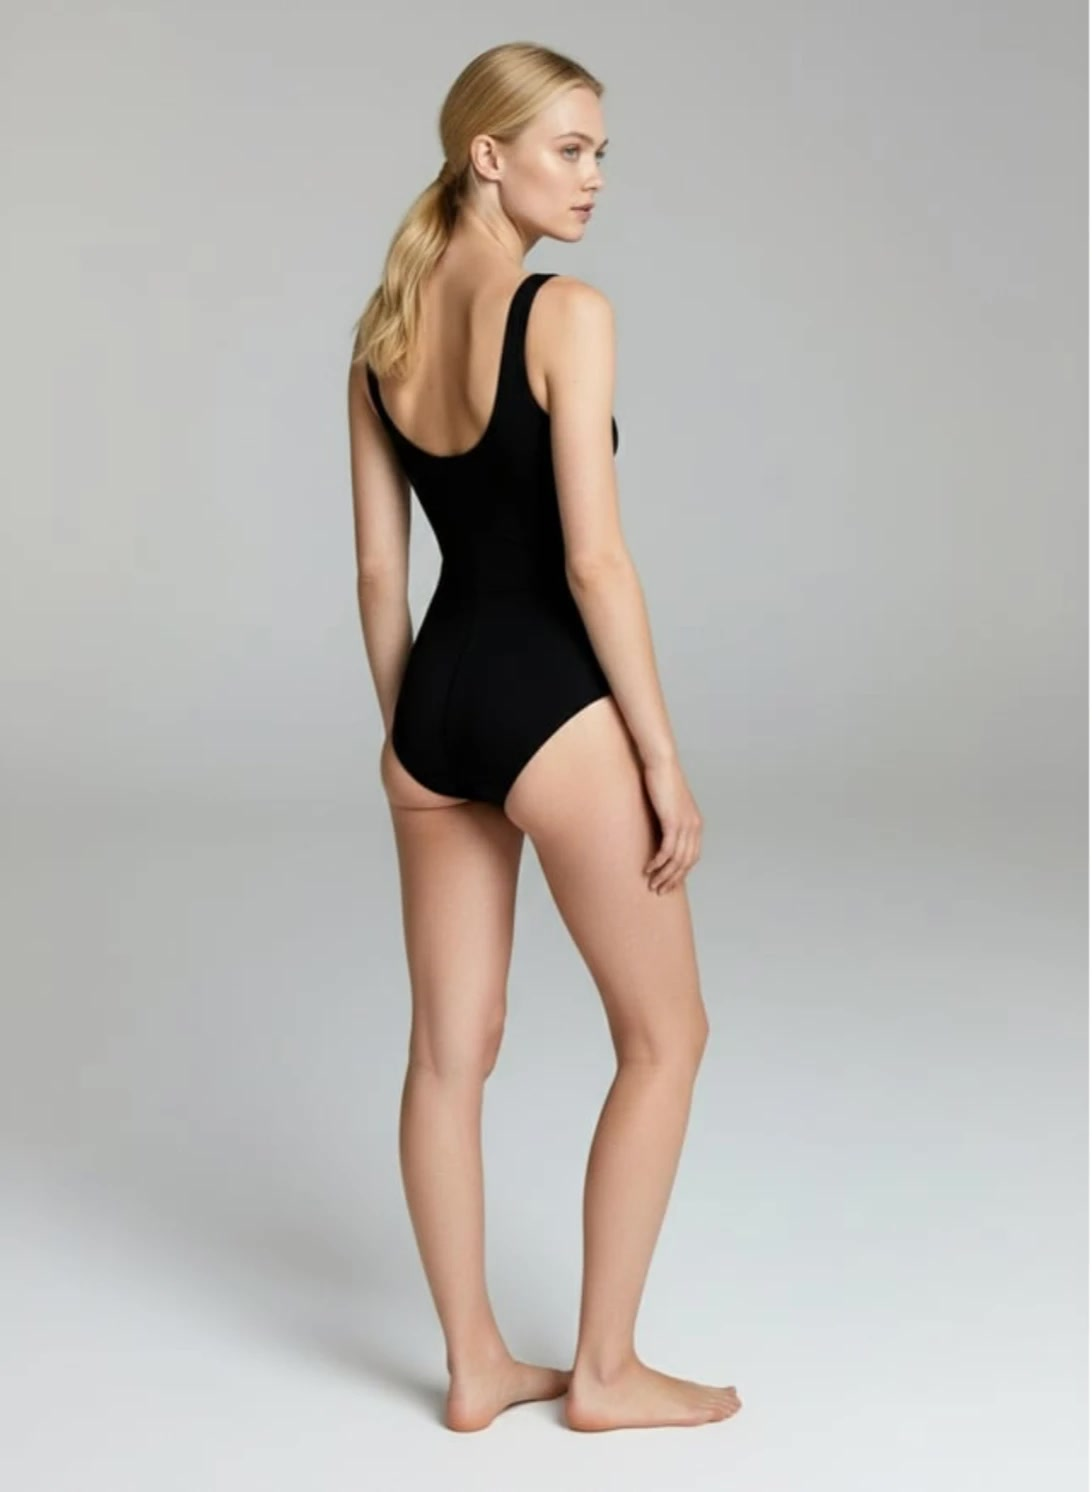
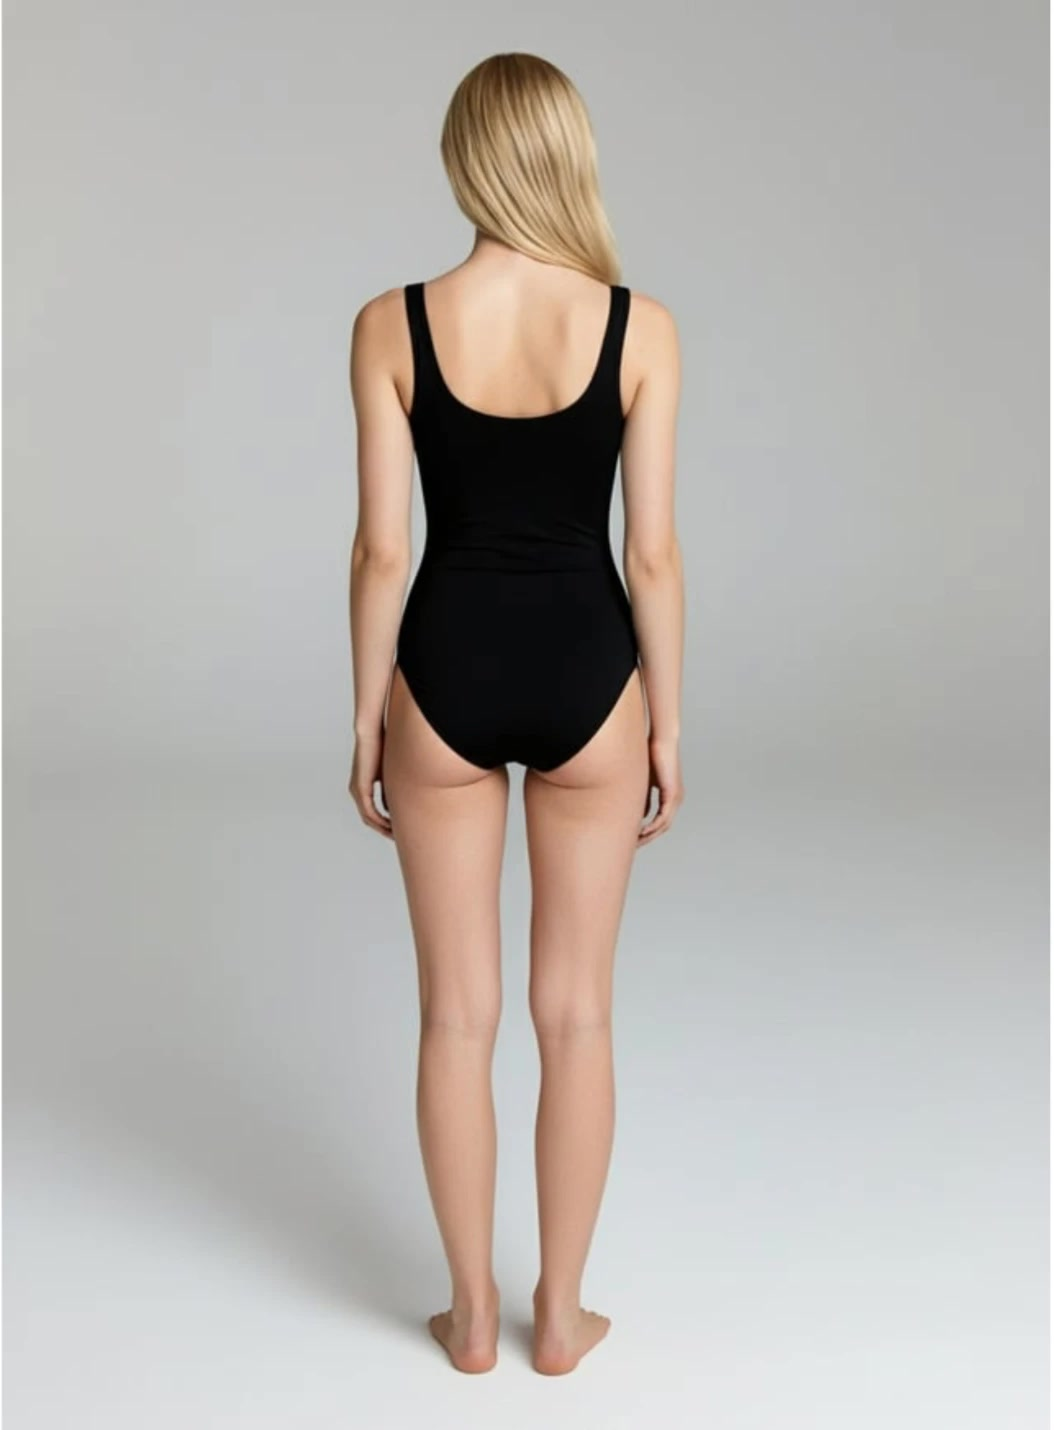
Model 2: add straight front and back poses; front becomes the default
Claude-Session: https://claude.ai/code/session_01Su8rUozF76NWEPHsHzx72b

Changed region(s): [[0.3036, 0.0308, 0.6983, 0.9846]]

diff --git a/docs/products/README.md b/docs/products/README.md
@@ -45,7 +45,7 @@
 | `mensei_uretim` | Üretim yeri ve kaynağı (ör. "Türkiye - AB siparişi fazlası"). |
 | `foto_dosyasi` | `docs/products/fotograflar/` içindeki dosya adı. Ürün tek başına, düz ve iyi ışıkta; en az 1200 px. Boşsa "Fotoğraf yakında" görünür. |
 | `gorsel` | `orijinal`, `urun`, `manken` veya `ikisi` (yukarıdaki tablo). |
-| `manken` | `gorsel` = `manken` / `ikisi` ise kullanılacak manken dosyası (uzantısız). Boşsa `manken-1`. Erkek: `manken-1` (önden, düz duruş), `manken-1-yuruyus`, `manken-1-yan`, `manken-1-eller-belde`, `manken-1-portre` (bel üstü, üst giyim yakın plan); kadın: `manken-2` (önden, eller belde), `manken-2-yuruyus`, `manken-2-yan`, `manken-2-arka` (sırt detayı), `manken-2-portre`. |
+| `manken` | `gorsel` = `manken` / `ikisi` ise kullanılacak manken dosyası (uzantısız). Boşsa `manken-1`. Erkek: `manken-1` (önden, düz duruş), `manken-1-yuruyus`, `manken-1-yan`, `manken-1-eller-belde`, `manken-1-portre` (bel üstü, üst giyim yakın plan); kadın: `manken-2` (önden, düz duruş), `manken-2-eller-belde`, `manken-2-yuruyus`, `manken-2-yan`, `manken-2-arka` (düz arkadan, sırt detayı), `manken-2-omuz` (arkadan, omuz üstü bakış), `manken-2-portre`. |
 | `not` | Kusur açıklaması veya ek bilgi. |
 
 Ürün sırası = sitede görünme sırası. En yeni ürünleri en üste koyun; ana sayfadaki "Bu Hafta Gelen Stoklar" ilk 12 ürünü gösterir.
